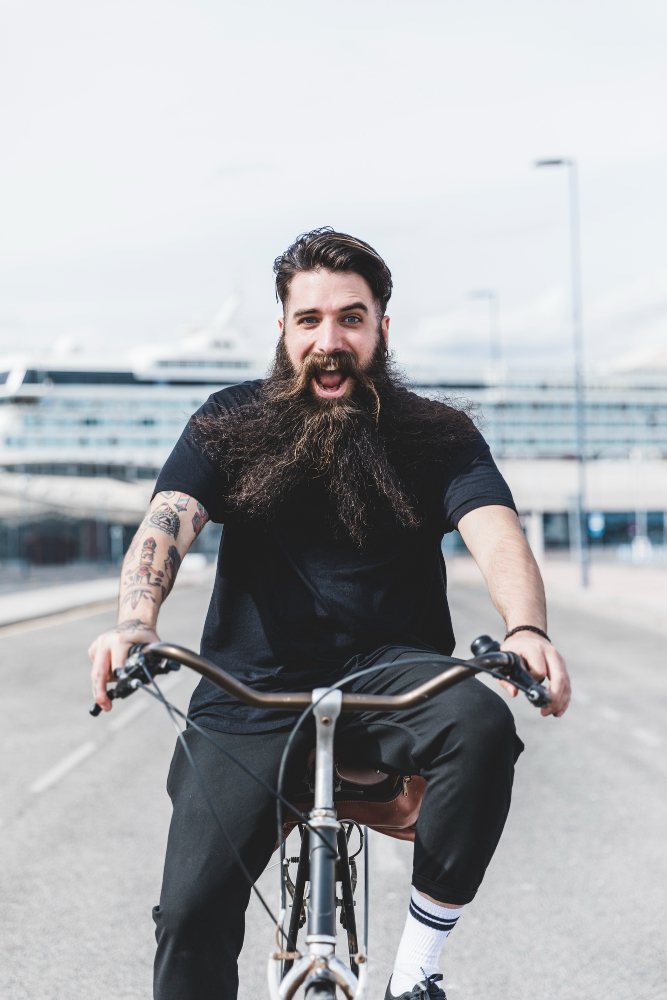
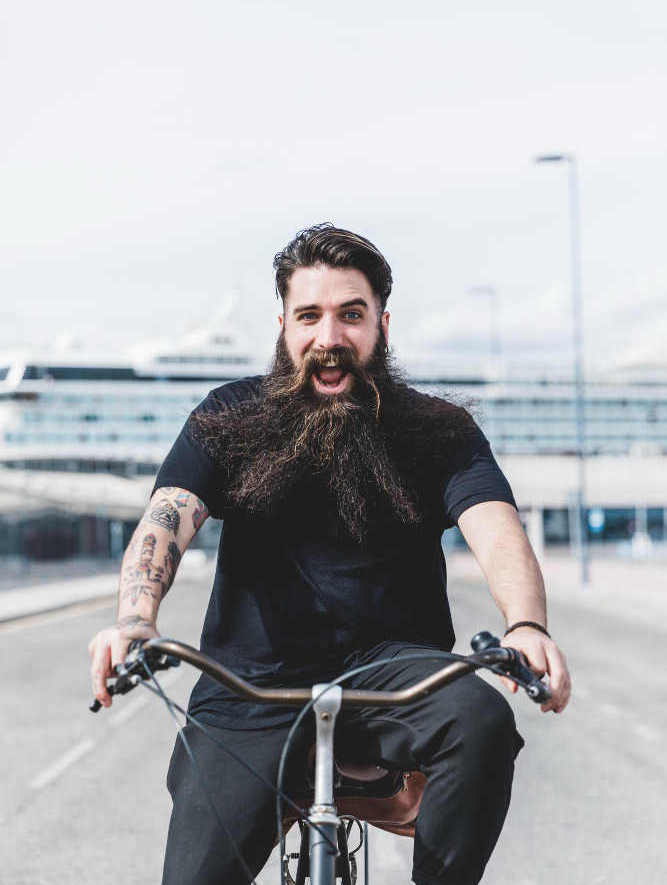
add aria-labels fix img weight

diff --git a/index.html b/index.html
@@ -19,10 +19,10 @@
                         <h1>Bikes of Ireland</h1>
                     </a>
                     <ul>
-                        <li><a href="#">Home</a></li>
-                        <li><a href="#bikes">Bikes</a></li>
-                        <li><a href="#rent">Rent</a></li>
-                        <li><a href="#team">Our Team</a></li>
+                        <li><a href="#" aria-label="Home">Home</a></li>
+                        <li><a href="#bikes" aria-label="Bikes">Bikes</a></li>
+                        <li><a href="#rent" aria-label="Rent">Rent</a></li>
+                        <li><a href="#team" aria-label="Our Team">Our Team</a></li>
                     </ul>
                 </nav>
             </div>
@@ -35,7 +35,7 @@
             <div class="container">
                 <div class="hero-content add-flex-center">
                     <h2>Get Moving, Get Exploring: Rent a Bike and Go!</h2>
-                    <a href="#bikes">Unlock Your Adventure</a>
+                    <a href="#bikes" aria-label="Bikes">Unlock Your Adventure</a>
                 </div>
             </div>
         </section>
@@ -98,23 +98,36 @@
                     <div class="rent-form">
                         <h3 class="form-title">Book Now</h3>
                         <form action="#" method="POST" class="rent-form-fields">
-                            <p class="form-description">First Name</p>
-                            <input class="form-input" type="text" name="first-name" placeholder="Enter your name"
+
+                            <label for="first-name">
+                                <p class="form-description">First Name</p>
+                            </label>
+                            <input id="first-name" class="form-input" type="text" name="first-name"
+                                placeholder="Enter your name" required>
+
+                            <label for="surname-name">
+                                <p class="form-description">Second Name</p>
+                            </label>
+                            <input id="surname-name" class="form-input" type="text" name="surname-name"
+                                placeholder="Enter your surname" required>
+
+                            <label for="phone">
+                                <p class="form-description">Phone</p>
+                            </label>
+                            <input id="phone" class="form-input" type="tel" name="Phone" placeholder="+353 X-XXX-XXXX"
                                 required>
-                            <p class="form-description">Second Name</p>
-                            <input class="form-input" type="text" name="surname-name" placeholder="Enter your surname"
-                                required>
-                            <p class="form-description">Phone</p>
-                            <input class="form-input" type="tel" name="Phone" placeholder="+353 X-XXX-XXXX" required>
-                            <p class="form-description">When should we contact you?</p>
-                            <textarea class="input-textarea" name="comment" id="" rows="8"></textarea>
+
+                            <label for="comment">
+                                <p class="form-description">When should we contact you?</p>
+                            </label>
+                            <textarea id="comment" class="input-textarea" name="comment"></textarea>
+
                             <p class="form-description">By submitting this form, you agree to the Privacy Policy and
                                 confirm that you are over 18 years old</p>
                             <div class="rent-form-bottom">
                                 <button class="form-button" type="submit">Submit</button>
                             </div>
                         </form>
-
                     </div>
                 </div>
 
@@ -152,14 +165,16 @@
             <div class="footer-wraper">
                 <div class="footer-left">
                     <ul>
-                        <li><a href="#">Home</a></li>
-                        <li><a href="#bikes">Bikes</a></li>
-                        <li><a href="#rent">Rent</a></li>
-                        <li><a href="#team">Our Team</a></li>
+                        <li><a href="#" aria-label="Home">Home</a></li>
+                        <li><a href="#bikes" aria-label="Bikes">Bikes</a></li>
+                        <li><a href="#rent" aria-label="Rent">Rent</a></li>
+                        <li><a href="#team" aria-label="Our Team">Our Team</a></li>
                     </ul>
                 </div>
-                <a href="#">  <div class="footer-logo"></div> </a>
-               
+                <a href="#" aria-label="Home">
+                    <div class="footer-logo"></div>
+                </a>
+
                 <div class="footer-right">
                     <div class="footer-right">
                         <ul>
@@ -169,12 +184,12 @@
                             <li>
                                 <div class="social-networks">
                                     <a href="https://instagram.com" target="_blank" rel="noopener"
-                                            aria-label="Visit our Instagram page (opens in a new tab)"><i
-                                                class="fab fa-instagram"></i></a>
+                                        aria-label="Visit our Instagram page (opens in a new tab)"><i
+                                            class="fab fa-instagram"></i></a>
                                     <a href="https://facebook.com" target="_blank" rel="noopener"
-                                            aria-label="Visit our Facebook page (opens in a new tab)"><i
-                                                class="fab fa-facebook"></i></a>
-                                    </div>
+                                        aria-label="Visit our Facebook page (opens in a new tab)"><i
+                                            class="fab fa-facebook"></i></a>
+                                </div>
                             </li>
                             <li>
                                 <p class="copyright">COPYRIGHT © 2023</p>

diff --git a/assets/css/styles.css b/assets/css/styles.css
@@ -30,8 +30,9 @@
 
  /*Header*/
  .header {
-     background-color: #7298c9;
+     background-color: #396fb5;
      min-height: 7vh;
+     padding-top: 5px;
  }
 
  .logo {
@@ -45,7 +46,7 @@
      color: #FFF;
      letter-spacing: 0.5px;
      font-weight: 400;
-     margin-top: 10px;
+
  }
 
  .navbar {
@@ -61,7 +62,6 @@
  .navbar ul {
      display: flex;
      align-items: center;
-     margin-top: 10px;
  }
 
  .navbar ul li {
@@ -478,13 +478,14 @@
 
  .copyright {
      font-family: "Poppins", sans-serif;
-     font-size: 12px;
+     font-size: 10px;
      color: #fff;
      text-decoration: none;
      text-align: right;
  }
 
  .follow-us {
+    margin-top: 10px;
      font-family: "Carter One", sans-serif;
      font-size: 16px;
      color: #fff;
